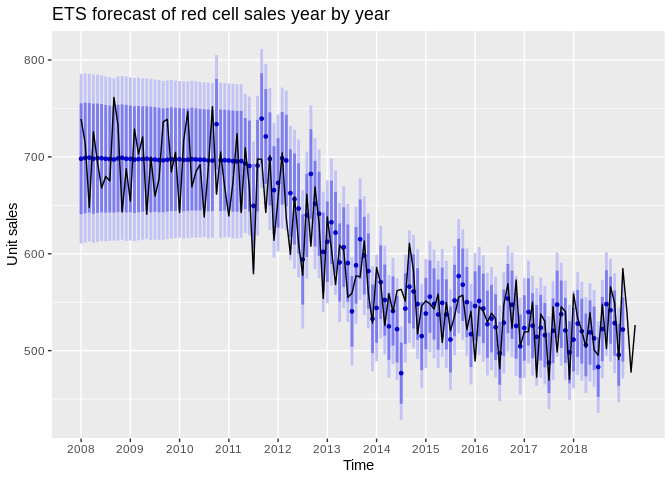
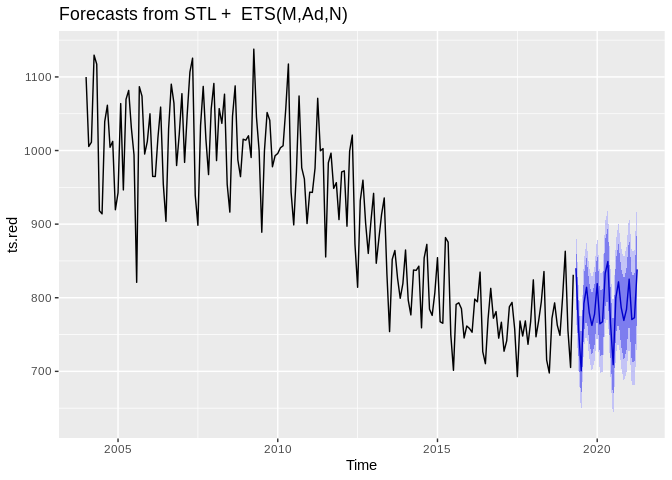
md

diff --git a/src/red_lab.md b/src/red_lab.md
@@ -1,5 +1,10 @@
-Forecasting Lab: Production Figures
+Forecasting Lab: Production Figures (red cells)
 ================
+
+``` r
+# Set working directory
+knitr::opts_knit$set(root.dir = "/home/esa/production_forecasts")
+```
 
 Tässä dokumentissa tutkitaan aikasarjaennustamista tuotannon
 kuukausittaisilla luvuilla. Erityisesti halutaan tietää seuraavat:
@@ -25,9 +30,8 @@ library(ggplot2)
 library(gridExtra)
 library(knitr)
 
-# Set working directory and load data
-setwd("/home/esa/production_forecasts")
-monthly_sales <- read.table("/home/esa/production_forecasts/data/kuukausimyynti.txt", header = T, sep = "\t")
+# Load data
+monthly_sales <- read.table("./data/kuukausimyynti.txt", header = T, sep = "\t")
 
 # Separate yyyy/mmm column into months and years
 monthly_sales$year <- substr(monthly_sales$kuukausi, 1, 4)
@@ -47,22 +51,96 @@ ts.red <- ts(d$Punasoluvalmisteet,
              start=as.numeric(c(d$year[1], d$month_num[1])), 
              end=as.numeric(c(tail(d$year, 1), tail(d$month_num, 1))), 
              frequency=12)  # This tells the series that it is monthly data
+autoplot(ts.red) + ggtitle("Monthly sales of red cell products") + ylab("Red cell units")
+```
 
-# Month adjustment
-ts.red <- ts.red/monthdays(ts.red)
+![](red_lab_files/figure-gfm/unnamed-chunk-2-1.png)<!-- --> \#\# Naive
+forecast as a benchmark
+
+``` r
+naive_plot <- ggplot() 
+naive_forecast_errors <- c()
+naive_RMSE <- c()
+naive_MAPE <- c()
+# Loop 
+for(i in seq(from=48, to=180, by=1)){
+  fit <- naive(head(ts.red, i))  # Fit based on history so far
+  fcast <- forecast(fit, h=1)  # Forecast the next month
+  segment <- ts.red[i+1]  # Extract that year from the history for error calculations
+  
+  # Build the plot piece by piece
+  naive_plot <- naive_plot + autolayer(fcast)
+  
+  # Calculate raw forecast errors
+  naive_forecast_errors <- c(naive_forecast_errors, abs(data.frame(fcast)$Point.Forecast - segment))
+  
+  naive_RMSE <- c(naive_RMSE, data.frame(accuracy(fcast, segment))$RMSE)
+  naive_MAPE <- c(naive_MAPE, data.frame(accuracy(fcast, segment))$MAPE)
+}
+```
+
+``` r
+# Plot
+naive_plot + ggtitle("Naive forecast of red cell sales month by month") +
+  scale_x_discrete(limits=c(2008, 2009, 2010, 2011, 2012, 2013, 2014, 2015, 2016, 2017, 2018)) + xlab("Time") +
+  ylab("Unit sales") + autolayer(window(ts.red, start=2008), colour=FALSE) +
+  geom_text(aes(2018, 26000, label=paste("RMSE: ", as.name(naive_RMSE)))) + geom_text(aes(2018, 26700, label=paste("MAPE: ", as.name(naive_MAPE))))
+```
+
+![](red_lab_files/figure-gfm/unnamed-chunk-4-1.png)<!-- --> \#\# First
+improvement: Business day adjustment
+
+``` r
+# Business day adjustment
+ts.red <- ts.red/bizdays(ts.red, FinCenter = "Zurich")  # Zurich is closest to Finnish business calendar, implementing of which would be a chore
 
 # Create plots for a quick overview
 p1 <- autoplot(ts.red)
 p1
 ```
 
-![](red_lab_files/figure-gfm/unnamed-chunk-2-1.png)<!-- -->
+![](red_lab_files/figure-gfm/unnamed-chunk-5-1.png)<!-- -->
+
+``` r
+naive_adj_plot <- ggplot() 
+naive_adj_forecast_errors <- c()
+naive_adj_RMSE <- c()
+naive_adj_MAPE <- c()
+# Loop 
+for(i in seq(from=48, to=180, by=1)){
+  fit <- naive(head(ts.red, i))  # Fit based on history so far
+  fcast <- forecast(fit, h=1)  # Forecast the next month
+  segment <- ts.red[i+1]  # Extract that year from the history for error calculations
+  
+  # Build the plot piece by piece
+  naive_adj_plot <- naive_adj_plot + autolayer(fcast)
+  
+  # Calculate raw forecast errors
+  naive_adj_forecast_errors <- c(naive_adj_forecast_errors, abs(data.frame(fcast)$Point.Forecast - segment))
+  
+  naive_adj_RMSE <- c(naive_adj_RMSE, data.frame(accuracy(fcast, segment))$RMSE)
+  naive_adj_MAPE <- c(naive_adj_MAPE, data.frame(accuracy(fcast, segment))$MAPE)
+}
+```
+
+``` r
+# Plot
+naive_adj_plot + ggtitle("Naive forecast of adjusted red cell sales month by month") +
+  scale_x_discrete(limits=c(2008, 2009, 2010, 2011, 2012, 2013, 2014, 2015, 2016, 2017, 2018)) + xlab("Time") +
+  ylab("Unit sales per day") + autolayer(window(ts.red, start=2008), colour=FALSE) +
+  geom_text(aes(2018, 1300, label=paste("RMSE: ", as.name(naive_adj_RMSE)))) + geom_text(aes(2018, 1370, label=paste("MAPE: ", as.name(naive_adj_MAPE))))
+```
+
+![](red_lab_files/figure-gfm/unnamed-chunk-7-1.png)<!-- -->
+
+Adjusting for business days per month improved the naive forecast by a
+whopping 1.8 percentage points.
 
 ``` r
 ggseasonplot(ts.red, year.labels = TRUE, year.labels.left = TRUE)
 ```
 
-![](red_lab_files/figure-gfm/unnamed-chunk-3-1.png)<!-- -->
+![](red_lab_files/figure-gfm/unnamed-chunk-8-1.png)<!-- -->
 
 Seems to me that July and December are low points in sales very
 consistently, while lots of sales happen in October and November.
@@ -70,8 +148,10 @@ consistently, while lots of sales happen in October and November.
 Trying out more advanced methods of decomposing
 
 ``` r
-# DECOMP HERE
+autoplot(stlf(ts.red))
 ```
+
+![](red_lab_files/figure-gfm/unnamed-chunk-9-1.png)<!-- -->
 
 EXPLANATION OF RESULTS
 
@@ -94,12 +174,25 @@ do proper modelling.
 ``` r
 # Seasonal and Trend decomposition by LOESS + ETS
 # The t.window of stl() should be an odd number, but Tuimala has decided against it. Will investigate.
-stl.red <- forecast(stl(ts.red, s.window="periodic", t.window=6), h=12)
+
+# IF MODEL EXISTS ALREADY, LOAD
+if (file.exists("./data/models/biz_jarno_stl_red.rds")) {
+  stl.red <- readRDS("./data/models/biz_jarno_stl_red.rds")
+} else {  # IF IT DOESN'T, CREATE AND SAVE
+  stl.red <- forecast(stl(ts.red, s.window="periodic", t.window=6), h=12)
+  saveRDS(stl.red, "./data/models/biz_jarno_stl_red.rds")
+}
+
 
 
 # Exponential smoothing state space model
 # ets() is an automated model selection function, so these are not the same model! Uses AICc, AIC and BIC.
-ets.red <- forecast(ets(ts.red), h=12)
+if (file.exists("./data/models/biz_jarno_ets_red.rds")) {
+  ets.red <- readRDS("./data/models/biz_jarno_ets_red.rds")
+} else {
+  ets.red <- forecast(ets(ts.red), h=12)
+  saveRDS(ets.red, "./data/models/biz_jarno_ets_red.rds")
+}
 
 
 # Plot
@@ -109,7 +202,7 @@ grid.arrange(grobs=list(autoplot(stl.red),
                                  c(2)))
 ```
 
-![](red_lab_files/figure-gfm/unnamed-chunk-6-1.png)<!-- -->
+![](red_lab_files/figure-gfm/unnamed-chunk-11-1.png)<!-- -->
 
 ETS models are based on weighted averages of past observations, with
 *exponentially* decaying weights as the observations move further back
@@ -153,13 +246,13 @@ monthly + ggtitle("STL+ETS forecast of red cell sales month by month") +
   ylab("Unit sales") + autolayer(window(ts.red, start=2008), colour=FALSE)
 ```
 
-![](red_lab_files/figure-gfm/unnamed-chunk-7-1.png)<!-- -->
+![](red_lab_files/figure-gfm/unnamed-chunk-12-1.png)<!-- -->
 
 ``` r
 autoplot(ts(forecast_errors, start=2008, end=2018, frequency=12)) + ggtitle("STL+ETS historical forecast errors for red cells") + ylab("Unit sales")
 ```
 
-![](red_lab_files/figure-gfm/unnamed-chunk-8-1.png)<!-- -->
+![](red_lab_files/figure-gfm/unnamed-chunk-13-1.png)<!-- -->
 
 ``` r
 monthly_ets <- ggplot() 
@@ -187,13 +280,13 @@ monthly_ets + ggtitle("ETS forecast of red cell sales year by year") +
   ylab("Unit sales") + autolayer(window(ts.red, start=2008), colour=FALSE)
 ```
 
-![](red_lab_files/figure-gfm/unnamed-chunk-9-1.png)<!-- -->
+![](red_lab_files/figure-gfm/unnamed-chunk-14-1.png)<!-- -->
 
 ``` r
 autoplot(ts(ets_forecast_errors, start=2008, end=2018, frequency=12)) + ggtitle("ETS historical forecast errors for red cells") + ylab("Unit sales")
 ```
 
-![](red_lab_files/figure-gfm/unnamed-chunk-10-1.png)<!-- -->
+![](red_lab_files/figure-gfm/unnamed-chunk-15-1.png)<!-- -->
 
 ## How far back do the models actually look?
 
@@ -207,7 +300,7 @@ stl_RMSE_1yr <- c()
 stl_MAPE_1yr <- c()
 # Loop 
 for(i in seq(from=48, to=180, by=1)){
-  fit <- stl(tail(head(ts.red, i), 60), s.window="periodic", t.window=6)  # Fit based on 1yr history
+  fit <- stl(tail(head(ts.red, i), 60), s.window="periodic", t.window=6)  # Fit based on 5yr history
   fcast <- forecast(fit, h=1)  # Forecast the next month
   segment <- ts.red[i+1]  # Extract that month from the history for error calculation
   
@@ -226,7 +319,7 @@ monthly_1yr + ggtitle("STL+ETS forecast of red cell sales month by month, 5 year
   ylab("Unit sales") + autolayer(window(ts.red, start=2008), colour=FALSE)
 ```
 
-![](red_lab_files/figure-gfm/unnamed-chunk-11-1.png)<!-- -->
+![](red_lab_files/figure-gfm/unnamed-chunk-16-1.png)<!-- -->
 
 ``` r
 ##################################
@@ -257,7 +350,7 @@ monthly_3yr + ggtitle("STL+ETS forecast of red cell sales month by month, 3 year
   ylab("Unit sales") + autolayer(window(ts.red, start=2008), colour=FALSE)
 ```
 
-![](red_lab_files/figure-gfm/unnamed-chunk-12-1.png)<!-- -->
+![](red_lab_files/figure-gfm/unnamed-chunk-17-1.png)<!-- -->
 
 ``` r
 ##################################
@@ -270,7 +363,7 @@ ets_RMSE_1yr <- c()
 ets_MAPE_1yr <- c()
 # Loop 
 for(i in seq(from=48, to=180, by=1)){
-  fit <- ets(tail(head(ts.red, i), 60))  # Fit based on 1yr history
+  fit <- ets(tail(head(ts.red, i), 60))  # Fit based on 5yr history
   fcast <- forecast(fit, h=1)  # Forecast the next month
   segment <- ts.red[i+1]  # Extract that month from the history for error calculation
   
@@ -289,7 +382,7 @@ monthly_ets_1yr + ggtitle("ETS forecast of red cell sales month by month, 5 year
   ylab("Unit sales") + autolayer(window(ts.red, start=2008), colour=FALSE)
 ```
 
-![](red_lab_files/figure-gfm/unnamed-chunk-13-1.png)<!-- -->
+![](red_lab_files/figure-gfm/unnamed-chunk-18-1.png)<!-- -->
 
 ``` r
 ##################################
@@ -321,7 +414,7 @@ monthly_ets_3yr + ggtitle("ETS forecast of red cell sales month by month, 3 year
   ylab("Unit sales") + autolayer(window(ts.red, start=2008), colour=FALSE)
 ```
 
-![](red_lab_files/figure-gfm/unnamed-chunk-14-1.png)<!-- -->
+![](red_lab_files/figure-gfm/unnamed-chunk-19-1.png)<!-- -->
 
 ## Forecasting from 2012 onwards
 
@@ -351,7 +444,7 @@ monthly_2012 + ggtitle("STL+ETS forecast of red cell sales month by month from 2
   ylab("Unit sales") + autolayer(window(ts.red, start=2011), colour=FALSE)
 ```
 
-![](red_lab_files/figure-gfm/unnamed-chunk-15-1.png)<!-- -->
+![](red_lab_files/figure-gfm/unnamed-chunk-20-1.png)<!-- -->
 
 ## Test out multiple regression
 
@@ -387,7 +480,7 @@ monthly_NN + ggtitle("NN forecast of red cell sales month by month") +
   ylab("Unit sales") + autolayer(window(ts.red, start=2008), colour=FALSE)
 ```
 
-![](red_lab_files/figure-gfm/unnamed-chunk-17-1.png)<!-- -->
+![](red_lab_files/figure-gfm/unnamed-chunk-22-1.png)<!-- -->
 
 ``` r
 #fit <- nnetar(ts.red, lambda=0)
@@ -397,6 +490,7 @@ monthly_NN + ggtitle("NN forecast of red cell sales month by month") +
 Find out which performed better on average:
 
 ``` r
+library(knitr)
 results <- matrix(c(mean(stl_RMSE), mean(stl_MAPE), 
                     mean(ets_RMSE), mean(ets_MAPE),
                     mean(NN_RMSE), mean(NN_MAPE),
@@ -424,11 +518,11 @@ results
 
 |               |     RMSE |     MAPE |
 | :------------ | -------: | -------: |
-| STL+ETS whole | 29.51083 | 4.194451 |
-| ETS whole     | 30.82392 | 4.354935 |
-| NN whole      | 25.34266 | 3.642746 |
-| STL+ETS 3yr   | 28.19377 | 4.285169 |
-| ETS 3yr       | 30.53135 | 4.521159 |
-| STL+ETS 1yr   | 28.15434 | 4.179257 |
-| ETS 1yr       | 31.85850 | 4.661747 |
-| STL+ETS 2012  | 28.15345 | 4.184228 |
+| STL+ETS whole | 34.74112 | 3.270382 |
+| ETS whole     | 34.65382 | 3.227973 |
+| NN whole      | 39.67374 | 3.739301 |
+| STL+ETS 3yr   | 28.41612 | 2.888570 |
+| ETS 3yr       | 35.32236 | 3.603965 |
+| STL+ETS 1yr   | 29.59490 | 2.924929 |
+| ETS 1yr       | 29.95052 | 2.944572 |
+| STL+ETS 2012  | 32.89986 | 3.243638 |
